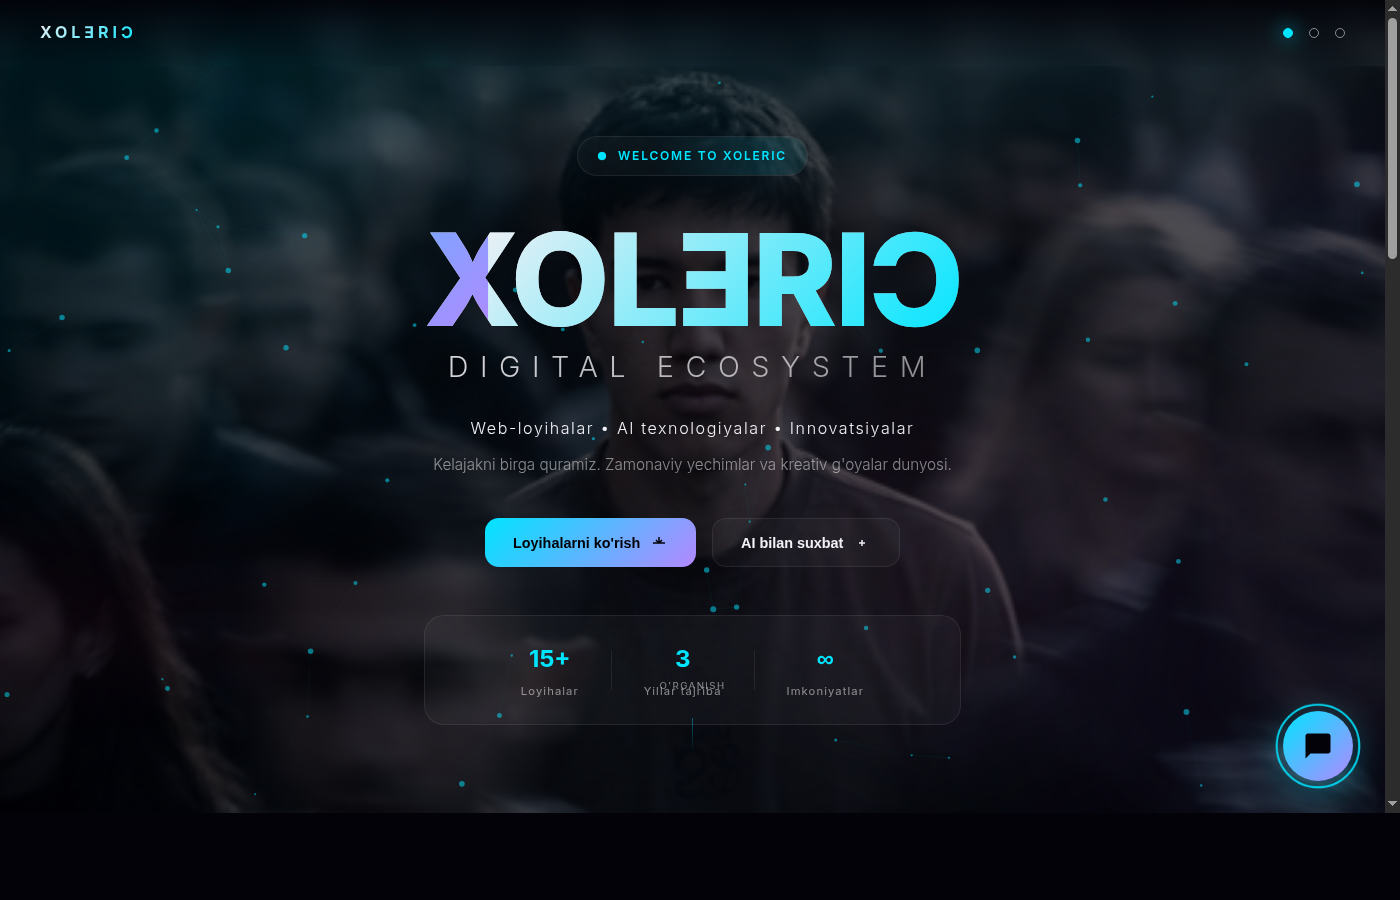
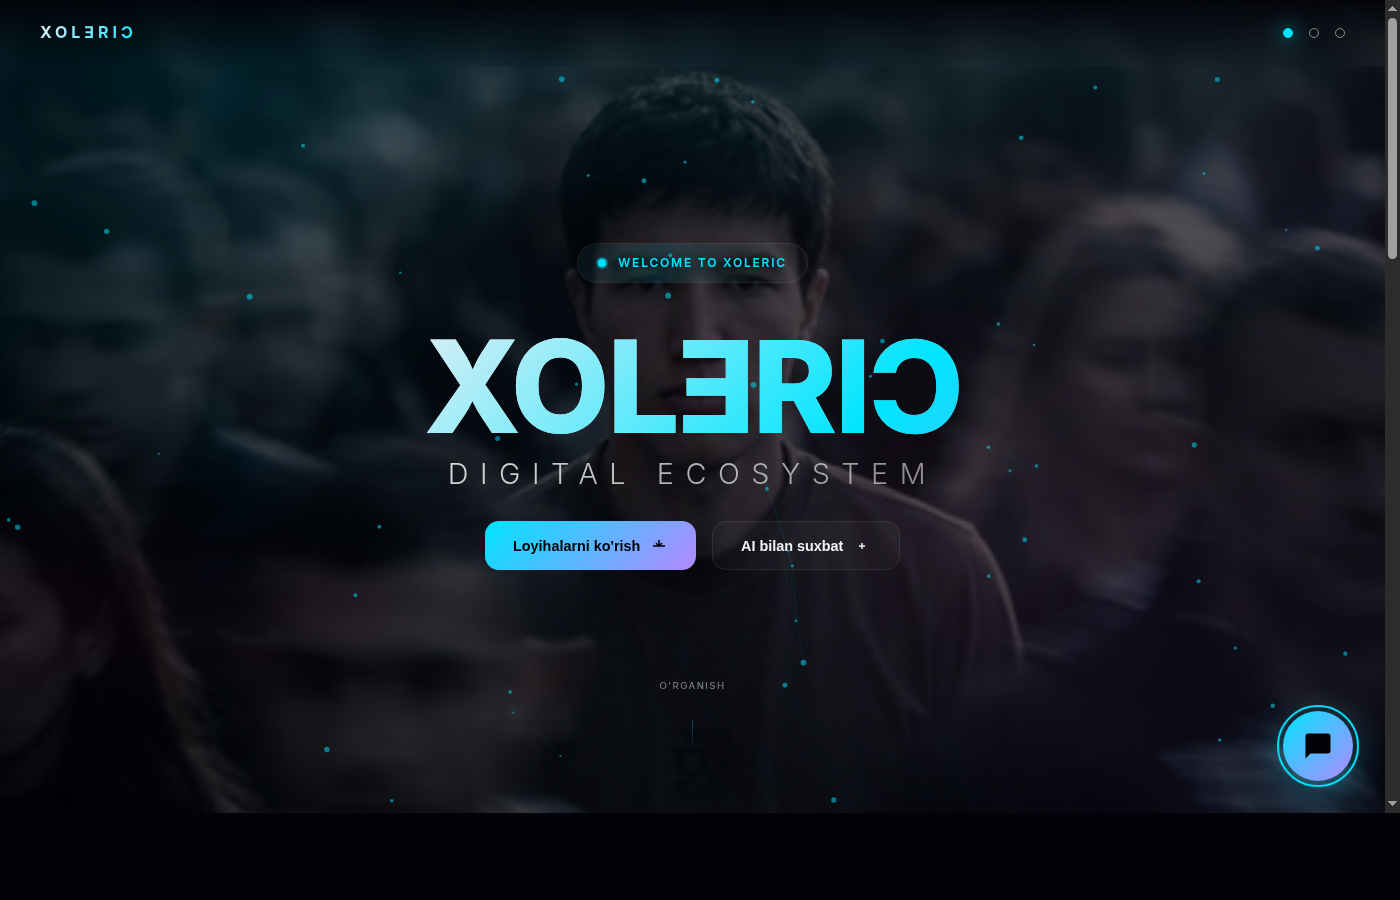
Clean: Remove buttons, keep minimal hero

diff --git a/index.html b/index.html
@@ -341,7 +341,7 @@
             margin-bottom: 2rem;
         }
         .title-line {
-            font-size: clamp(4rem, 12vw, 8rem);
+            font-size: clamp(3rem, 10vw, 7rem);
             font-weight: 800;
             line-height: 1;
             letter-spacing: -0.02em;
@@ -360,48 +360,7 @@
             letter-spacing: 0.4em;
             color: var(--muted);
         }
-        .hero-actions {
-            display: flex;
-            justify-content: center;
-            gap: 1rem;
-            margin-bottom: 3rem;
-            flex-wrap: wrap;
-        }
-        .hero-btn {
-            display: inline-flex;
-            align-items: center;
-            gap: 0.6rem;
-            padding: 0.9rem 1.75rem;
-            border-radius: 14px;
-            font-size: 0.9rem;
-            font-weight: 600;
-            cursor: pointer;
-            transition: all 0.4s var(--ease-smooth);
-            border: none;
-        }
-        .hero-btn.primary {
-            background: linear-gradient(135deg, var(--cyan), var(--violet));
-            color: var(--void);
-        }
-        .hero-btn.primary:hover {
-            transform: translateY(-3px);
-            box-shadow: 0 15px 40px rgba(0,229,255,0.3);
-        }
-        .hero-btn.secondary {
-            background: var(--surface);
-            border: 1px solid var(--border);
-            color: var(--text);
-        }
-        .hero-btn.secondary:hover {
-            border-color: var(--cyan);
-            background: var(--surface-hover);
-        }
-        .hero-btn svg {
-            width: 18px;
-            height: 18px;
-        }
-
-        /* ===== PROJECTS ===== */
+/* ===== PROJECTS ===== */
         #projects { 
             background: linear-gradient(180deg, transparent, rgba(10,10,18,0.85)); 
         }
@@ -969,16 +928,6 @@
                 <span class="title-line">XOLƎRIƆ</span>
                 <span class="title-sub">DIGITAL ECOSYSTEM</span>
             </h1>
-            <div class="hero-actions">
-                <button class="hero-btn primary" onclick="scrollTo(1)">
-                    <span>Loyihalarni ko'rish</span>
-                    <svg viewBox="0 0 24 24"><path d="M12 4v8m0 0l-4-4m4 4l4-4M4 12h16" stroke="currentColor" stroke-width="2" fill="none"/></svg>
-                </button>
-                <button class="hero-btn secondary" onclick="toggleAI()">
-                    <span>AI bilan suxbat</span>
-                    <svg viewBox="0 0 24 24"><path d="M8 12h8m-4-4v8" stroke="currentColor" stroke-width="2" fill="none"/></svg>
-                </button>
-            </div>
         </div>
         <div class="scroll-hint">
             <span>O'RGANISH</span>
@@ -1128,10 +1077,7 @@
         <p class="footer-text">© 2026 <span class="footer-sep">—</span> <a href="https://xoleric.uz" target="_blank">xoleric.uz</a> — Barcha huquqlar himoyalangan</p>
     </footer>
 
-    <button id="ai-trigger" onclick="toggleAI()">
-        <span class="ai-label">AI Assistant</span>
-        <svg viewBox="0 0 24 24"><path d="M20 2H4c-1.1 0-2 .9-2 2v18l4-4h14c1.1 0 2-.9 2-2V4c0-1.1-.9-2-2-2z"/></svg>
-    </button>
+    
 
     <div id="ai-panel">
         <div class="ai-header">
